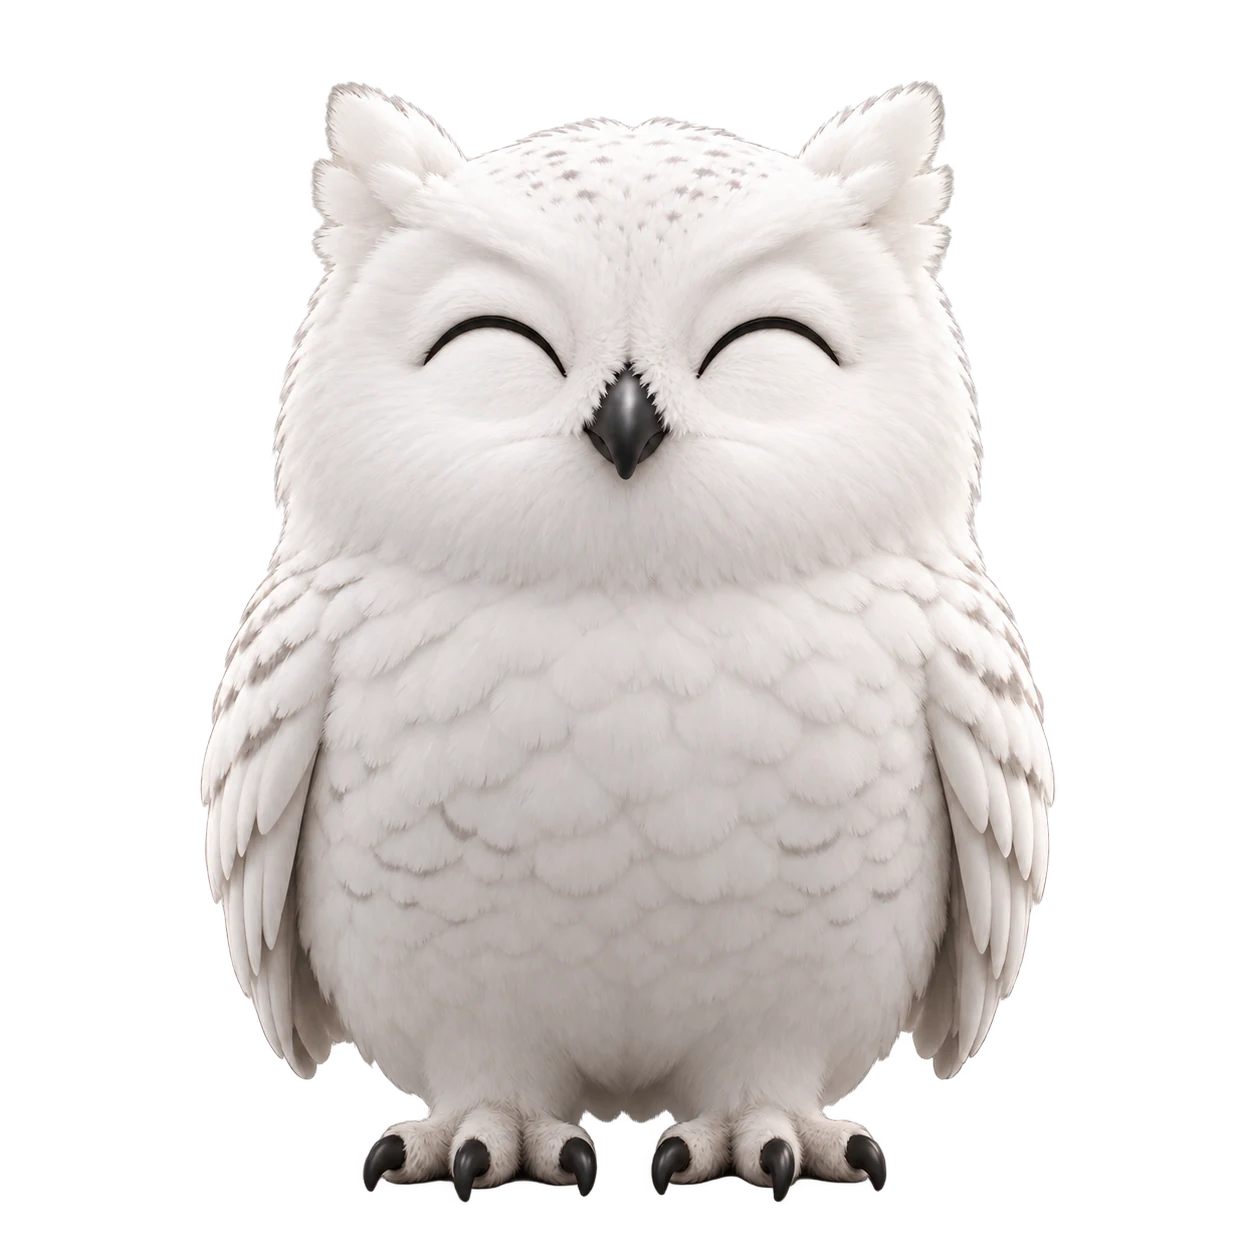
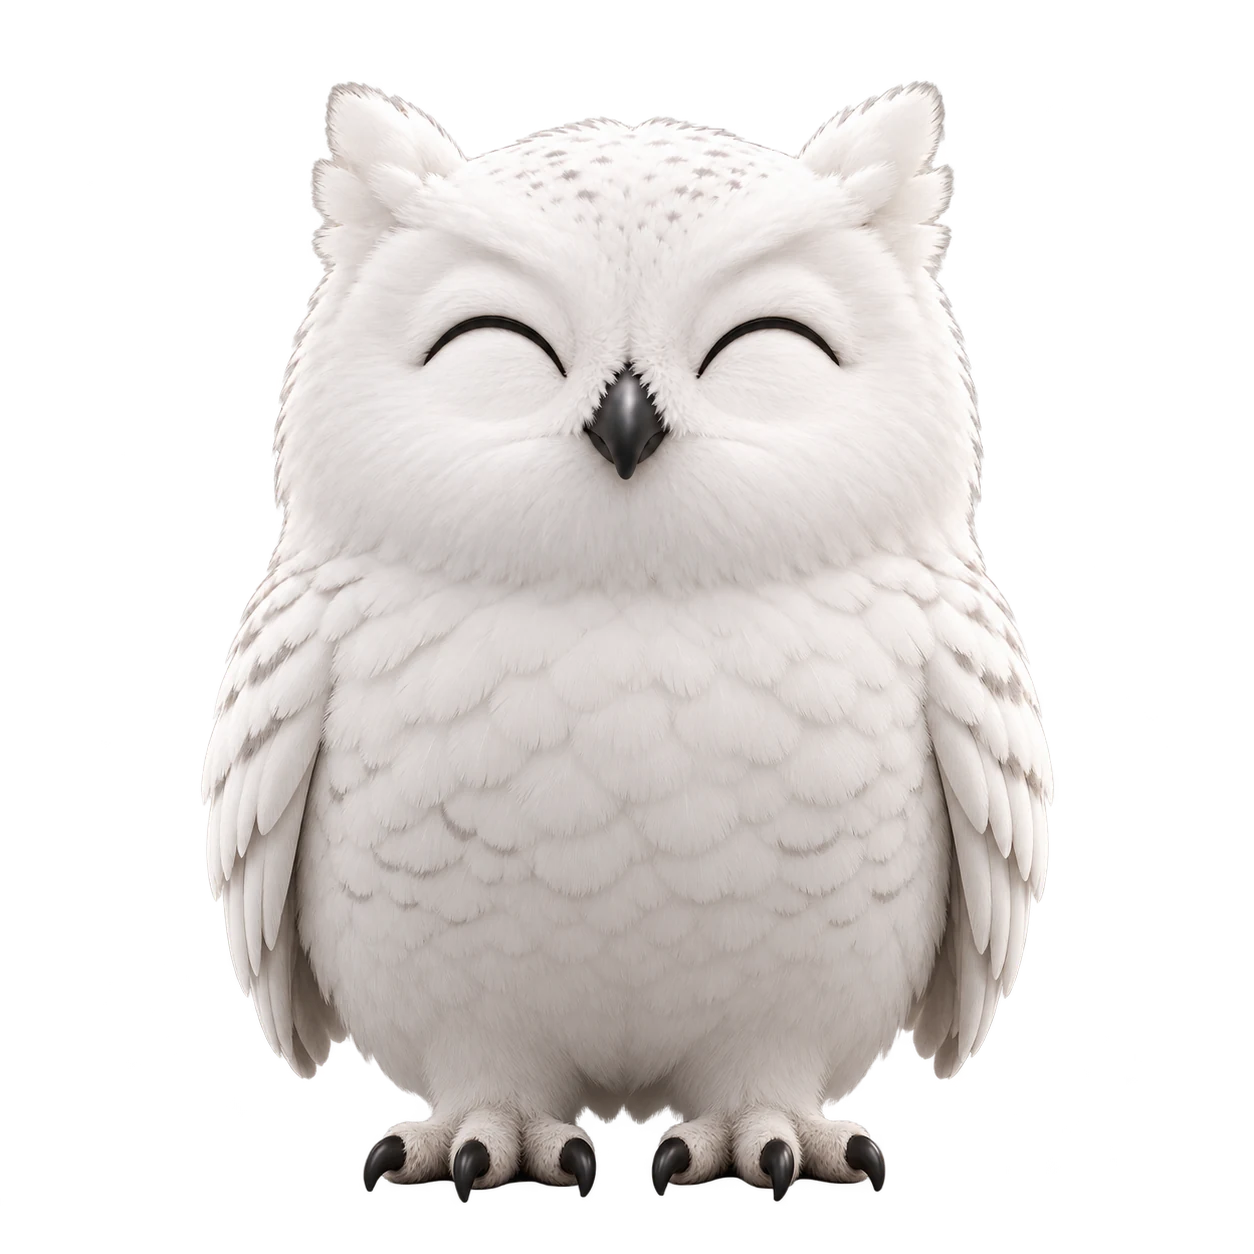
fix(arrival): v30 姿勢圖改為只換頭（身體固定用正面，消除切換時羽毛閃動錯位）；淺色游標光與流光改銀白；關燈時身體全暗只留眼睛
Claude-Session: https://claude.ai/code/session_018VaFEVDeeAH9cymCVxBXh4

diff --git a/apps/web/assets/brand-arrival.js b/apps/web/assets/brand-arrival.js
@@ -13,7 +13,7 @@
   const videos = {dark:root.querySelector('.fa-film-dark'),light:root.querySelector('.fa-film-light')};
   const owl = root.querySelector('.fa-owl-wrap'), poseBox = root.querySelector('.fa-poses'), eyeBox = root.querySelector('.fa-eyeglow-layer');
   // 多姿勢貓頭鷹：把 assets/arrival/owl/ 內的姿勢圖備齊後，把 ready 改成 true 即啟用（規格見該資料夾 README.md）
-  const POSES = {ready:true, base:'assets/arrival/owl/', ext:'webp', v:'1', names:['front','left-20','left','right-20','right','up','up-left','up-right','down','blink','blink-left','blink-right','tilt','happy','surprised','wave']};
+  const POSES = {ready:true, base:'assets/arrival/owl/', ext:'webp', v:'2', names:['front','left-20','left','right-20','right','up','up-left','up-right','down','blink','blink-left','blink-right','tilt','happy','surprised','wave']};
   const TRACK = ['left','left-20','front','right-20','right'], BLINK = {front:'blink',left:'blink-left',right:'blink-right'};
   const pose = {on:false, imgs:{}, eyes:{}, loaded:{}, look:'front', want:'front', current:'', expr:'', exprTimer:0, idleTimer:0, stepTimer:0, lastMove:0, hoverEnter:false, head:{x:0,y:0,w:1}};
   const canvas = root.querySelector('.fa-particles'), ctx = canvas.getContext('2d'), streakField = root.querySelector('.fa-streak-field');
@@ -29,7 +29,7 @@
     if(stage){if(pose.on)updateLook();drawParticles(dt,now)}else{const v=video();root.style.setProperty('--progress',`${Math.min(100,v.currentTime/stop()*100)}%`);if(v.currentTime>=stop()-.04)enterStage()}
     raf=requestAnimationFrame(animate);
   }
-  function drawParticles(dt,now){ctx.clearRect(0,0,pw,ph);const px=smooth.x*pw,py=smooth.y*ph;particles.forEach(p=>{let dx=p.x-px,dy=p.y-py,d=Math.hypot(dx,dy)||1;if(d<115){const f=(1-d/115)*.18;p.vx+=dx/d*f;p.vy+=dy/d*f}p.vx*=.94;p.vy*=.94;p.x+=p.vx*dt*.12+.035*Math.sin(now*.0003+p.p);p.y+=p.vy*dt*.12-.018;if(p.y<-10)p.y=ph+10;if(p.x<-10)p.x=pw+10;if(p.x>pw+10)p.x=-10;ctx.globalAlpha=.12+p.r*.09;ctx.fillStyle=lightMode()?'#9b7b40':'#e8c576';ctx.beginPath();ctx.arc(p.x,p.y,p.r,0,Math.PI*2);ctx.fill()});ctx.globalAlpha=1}
+  function drawParticles(dt,now){ctx.clearRect(0,0,pw,ph);const px=smooth.x*pw,py=smooth.y*ph;particles.forEach(p=>{let dx=p.x-px,dy=p.y-py,d=Math.hypot(dx,dy)||1;if(d<115){const f=(1-d/115)*.18;p.vx+=dx/d*f;p.vy+=dy/d*f}p.vx*=.94;p.vy*=.94;p.x+=p.vx*dt*.12+.035*Math.sin(now*.0003+p.p);p.y+=p.vy*dt*.12-.018;if(p.y<-10)p.y=ph+10;if(p.x<-10)p.x=pw+10;if(p.x>pw+10)p.x=-10;ctx.globalAlpha=.12+p.r*.09;ctx.fillStyle=lightMode()?'#c9d4de':'#e8c576';ctx.beginPath();ctx.arc(p.x,p.y,p.r,0,Math.PI*2);ctx.fill()});ctx.globalAlpha=1}
   function spawnStreaks(){if(!active||!stage||reduce.matches)return;const isLight=lightMode(),count=1+Math.floor(Math.random()*3);for(let i=0;i<count;i++){const s=document.createElement('i');s.className=`fa-streak ${isLight?'fa-light-flow':'fa-meteor'}`;s.style.setProperty('--st',`${8+Math.random()*66}vh`);s.style.setProperty('--sl',`${-18+Math.random()*56}vw`);s.style.setProperty('--len',`${isLight?150+Math.random()*210:110+Math.random()*190}px`);s.style.setProperty('--dur',`${isLight?2.05+Math.random()*1.45:1.55+Math.random()*1.2}s`);s.style.setProperty('--delay',`${i*.22+Math.random()*.42}s`);s.style.setProperty('--rot',`${isLight?-7+Math.random()*12:18+Math.random()*14}deg`);streakField.append(s);s.addEventListener('animationend',()=>s.remove(),{once:true})}}
   function rotateTitle(){if(!active||!stage||titles.length<2)return;const els=[titleLine,enLine];els.forEach(e=>e.classList.add('fa-title-out'));setTimeout(()=>{titleIndex=(titleIndex+1)%titles.length;titleLine.innerHTML=titles[titleIndex].zh;enLine.textContent=titles[titleIndex].en;els.forEach(e=>{e.classList.remove('fa-title-out');e.classList.add('fa-title-in')});requestAnimationFrame(()=>requestAnimationFrame(()=>els.forEach(e=>e.classList.remove('fa-title-in'))))},1000)}
   function startAtmosphere(){clearInterval(streakTimer);clearInterval(titleTimer);setTimeout(spawnStreaks,900);streakTimer=setInterval(spawnStreaks,3000);titleTimer=setInterval(rotateTitle,6000)}
@@ -38,7 +38,7 @@
   function showPose(name){if(!pose.on||pose.current===name||!pose.loaded[name])return;const prev=pose.imgs[pose.current];pose.current=name;Object.values(pose.imgs).forEach(img=>img.classList.remove('is-prev'));if(prev){prev.classList.remove('is-on');prev.classList.add('is-prev');clearTimeout(pose.prevTimer);pose.prevTimer=setTimeout(()=>prev.classList.remove('is-prev'),230)}pose.imgs[name].classList.add('is-on');const pe=pose.eyes[prev?.dataset.pose],ne=pose.eyes[name];Object.values(pose.eyes).forEach(e=>e.classList.remove('is-on','is-prev'));if(pe){pe.classList.add('is-prev');setTimeout(()=>pe.classList.remove('is-prev'),230)}if(ne)ne.classList.add('is-on')}
   function measureHead(){const r=owl.getBoundingClientRect(),o=root.getBoundingClientRect();pose.head={x:r.left-o.left+r.width/2,y:r.top-o.top+r.height*.3,w:r.width||1}}
   function lookFor(px,py){if(pose.hoverEnter)return'down';const dx=(px-pose.head.x)/pose.head.w,dy=(py-pose.head.y)/pose.head.w,ax=Math.abs(dx),side=dx<0?'left':'right';if(dy<-.32&&ax<1.6)return ax<.3?'up':`up-${side}`;if(ax<.28)return'front';return ax<.85?`${side}-20`:side}
-  function stepLook(){clearTimeout(pose.stepTimer);const want=pose.want,cur=pose.look;if(want===cur)return;const a=TRACK.indexOf(cur),b=TRACK.indexOf(want);let next=want;if(a>-1&&b>-1&&Math.abs(b-a)>1)next=TRACK[a+Math.sign(b-a)];pose.look=next;if(!pose.expr)showPose(next);if(next!==want)pose.stepTimer=setTimeout(stepLook,95)}
+  function stepLook(){clearTimeout(pose.stepTimer);const want=pose.want,cur=pose.look;if(want===cur)return;const a=TRACK.indexOf(cur),b=TRACK.indexOf(want);let next=want;if(a>-1&&b>-1&&Math.abs(b-a)>1)next=TRACK[a+Math.sign(b-a)];pose.look=next;if(!pose.expr)showPose(next);if(next!==want)pose.stepTimer=setTimeout(stepLook,130)}
   function updateLook(){if(performance.now()-pose.lastMove>4200&&!pose.hoverEnter)return;const w=lookFor(target.x*pw,target.y*ph);if(w!==pose.want){pose.want=w;stepLook()}}
   function scheduleBlink(){clearTimeout(blinkTimer);if(!pose.on)return;blinkTimer=setTimeout(()=>{if(!active||!stage)return;const b=BLINK[pose.look];if(!pose.expr&&b&&pose.loaded[b]){root.classList.add('fa-fast');showPose(b);setTimeout(()=>{if(!pose.expr)showPose(pose.look);setTimeout(()=>root.classList.remove('fa-fast'),120)},130)}scheduleBlink()},2400+Math.random()*3400)}
   function playExpr(name,ms){if(!pose.on||!pose.loaded[name])return;clearTimeout(pose.exprTimer);pose.expr=name;showPose(name);pose.exprTimer=setTimeout(()=>{pose.expr='';showPose(pose.look)},ms)}

diff --git a/apps/web/assets/brand-arrival.css b/apps/web/assets/brand-arrival.css
@@ -154,3 +154,11 @@ html #fqiArrival.fa-poses-on{--lamp-bottom:calc(98vh - var(--owl-h)*.933 - 6vh)}
 #fqiArrival.fa-fast .fa-eyeglow{transition-duration:.05s}
 #fqiArrival.fa-lights-off .fa-eyeglow-layer{opacity:1}
 #fqiArrival.fa-lights-off .fa-pose{filter:brightness(.05) saturate(.3);transition:opacity .2s ease,filter .9s ease}
+/* v30 淺色滑鼠追蹤光改銀白；姿勢切換更短更順；關燈時身體幾乎全暗、只留眼睛 */
+html[data-theme="light"] #fqiArrival .fa-cursor-light{width:30vmax;height:30vmax;background:radial-gradient(circle,rgba(255,255,255,.62),rgba(236,242,248,.30) 22%,rgba(214,226,238,.10) 45%,transparent 68%);mix-blend-mode:screen;filter:saturate(.6)}
+html[data-theme="light"] .fa-light-flow{background:linear-gradient(90deg,transparent 0,rgba(210,222,234,.03) 30%,rgba(232,240,248,.32) 71%,rgba(255,255,255,.9));filter:blur(.25px) drop-shadow(0 0 4px rgba(255,255,255,.55))}
+html[data-theme="light"] .fa-light-flow::before{background:#fff;box-shadow:0 0 6px rgba(255,255,255,.95),0 0 14px rgba(214,228,242,.6)}
+html[data-theme="light"] .fa-light-flow::after{background:radial-gradient(circle,rgba(255,255,255,.4),transparent 68%)}
+.fa-pose,.fa-eyeglow{transition-duration:.14s}
+#fqiArrival.fa-lights-off .fa-pose{filter:brightness(.02) saturate(0)}
+#fqiArrival.fa-lights-off .fa-cursor-light{opacity:0!important}

diff --git a/apps/web/index.html b/apps/web/index.html
@@ -18129,7 +18129,7 @@
 <script src="assets/ai-pattern-screen.js?v=20261028-tri1" defer></script>
 <link rel="stylesheet" href="assets/pattern-admin-review.css?v=20261027-1">
 <script src="assets/pattern-admin-review.js?v=20261027-6" defer></script>
-<link rel="stylesheet" href="assets/brand-arrival.css?v=29">
-<script src="assets/brand-arrival.js?v=28" defer></script>
+<link rel="stylesheet" href="assets/brand-arrival.css?v=30">
+<script src="assets/brand-arrival.js?v=29" defer></script>
 </body>
 </html>
